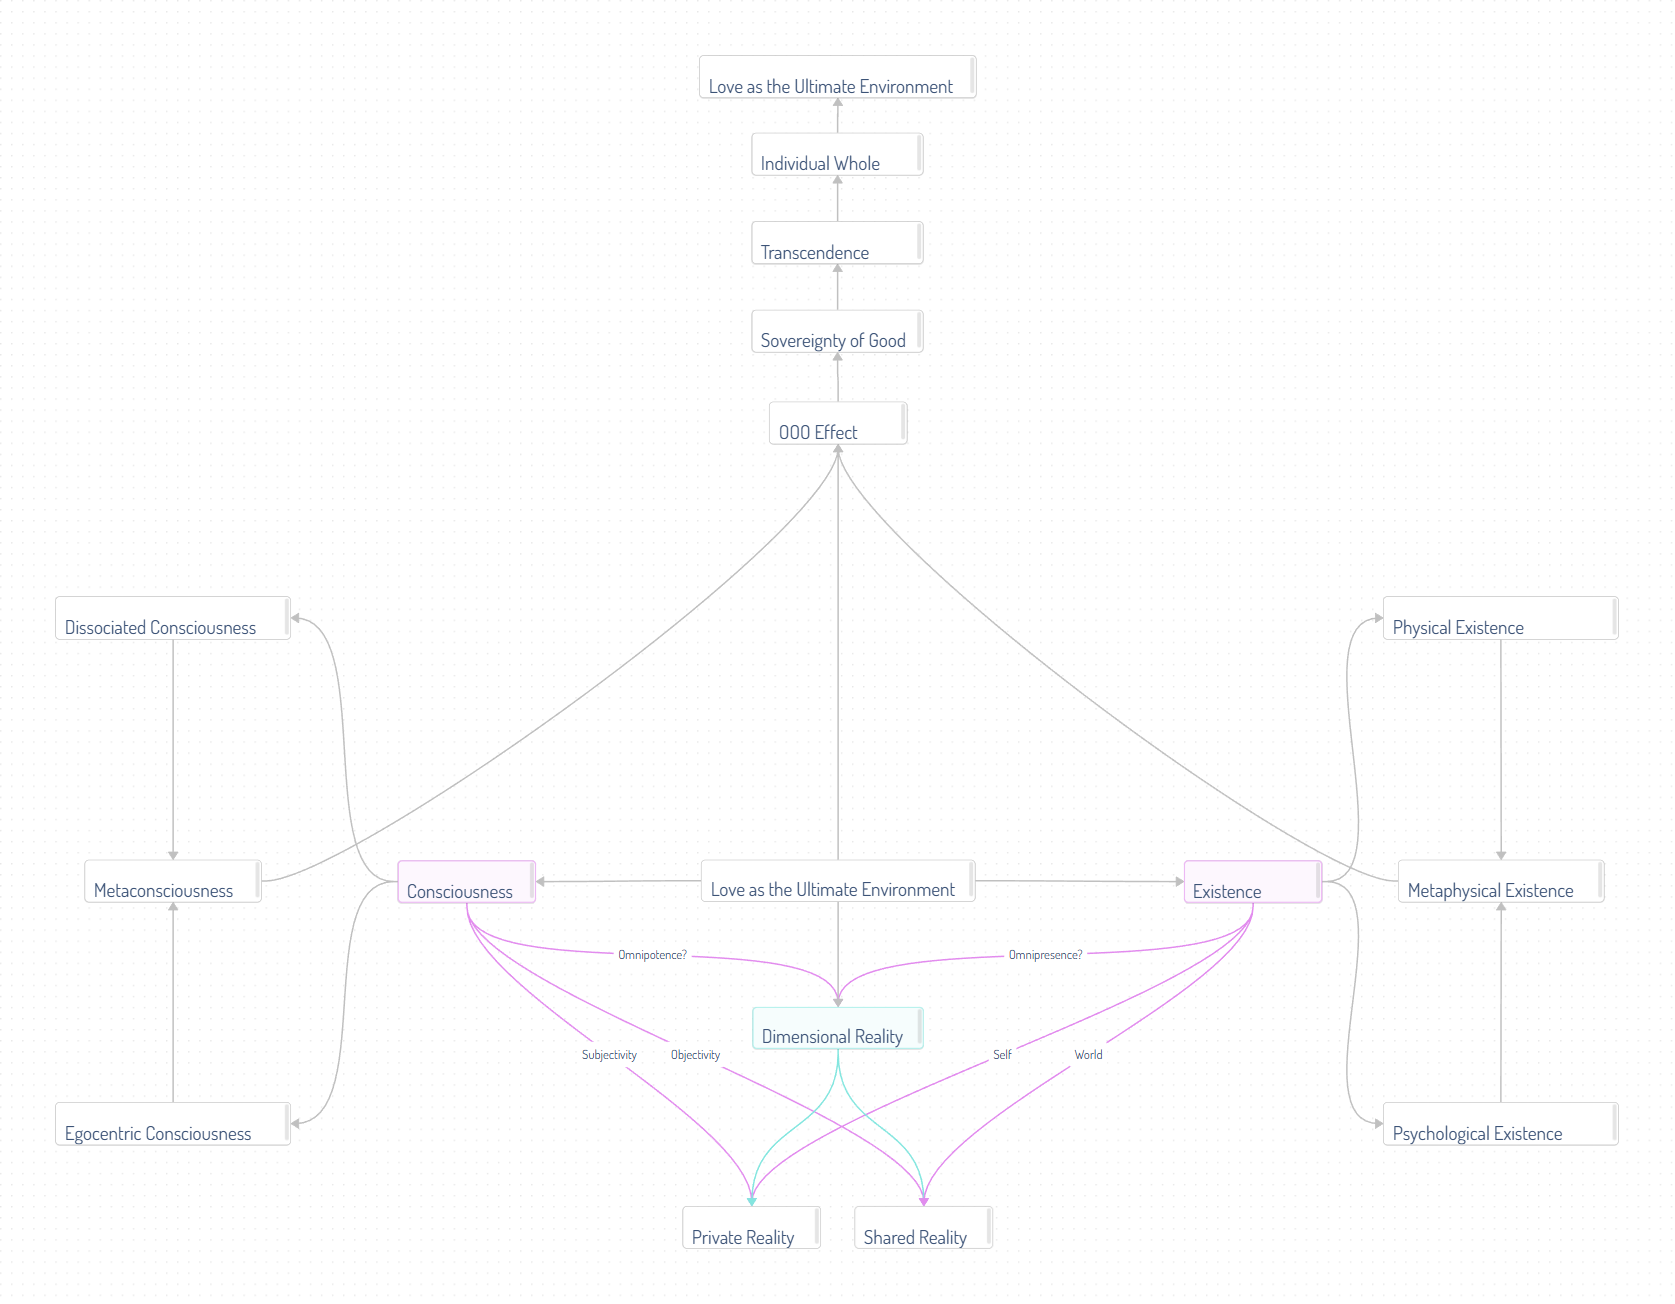
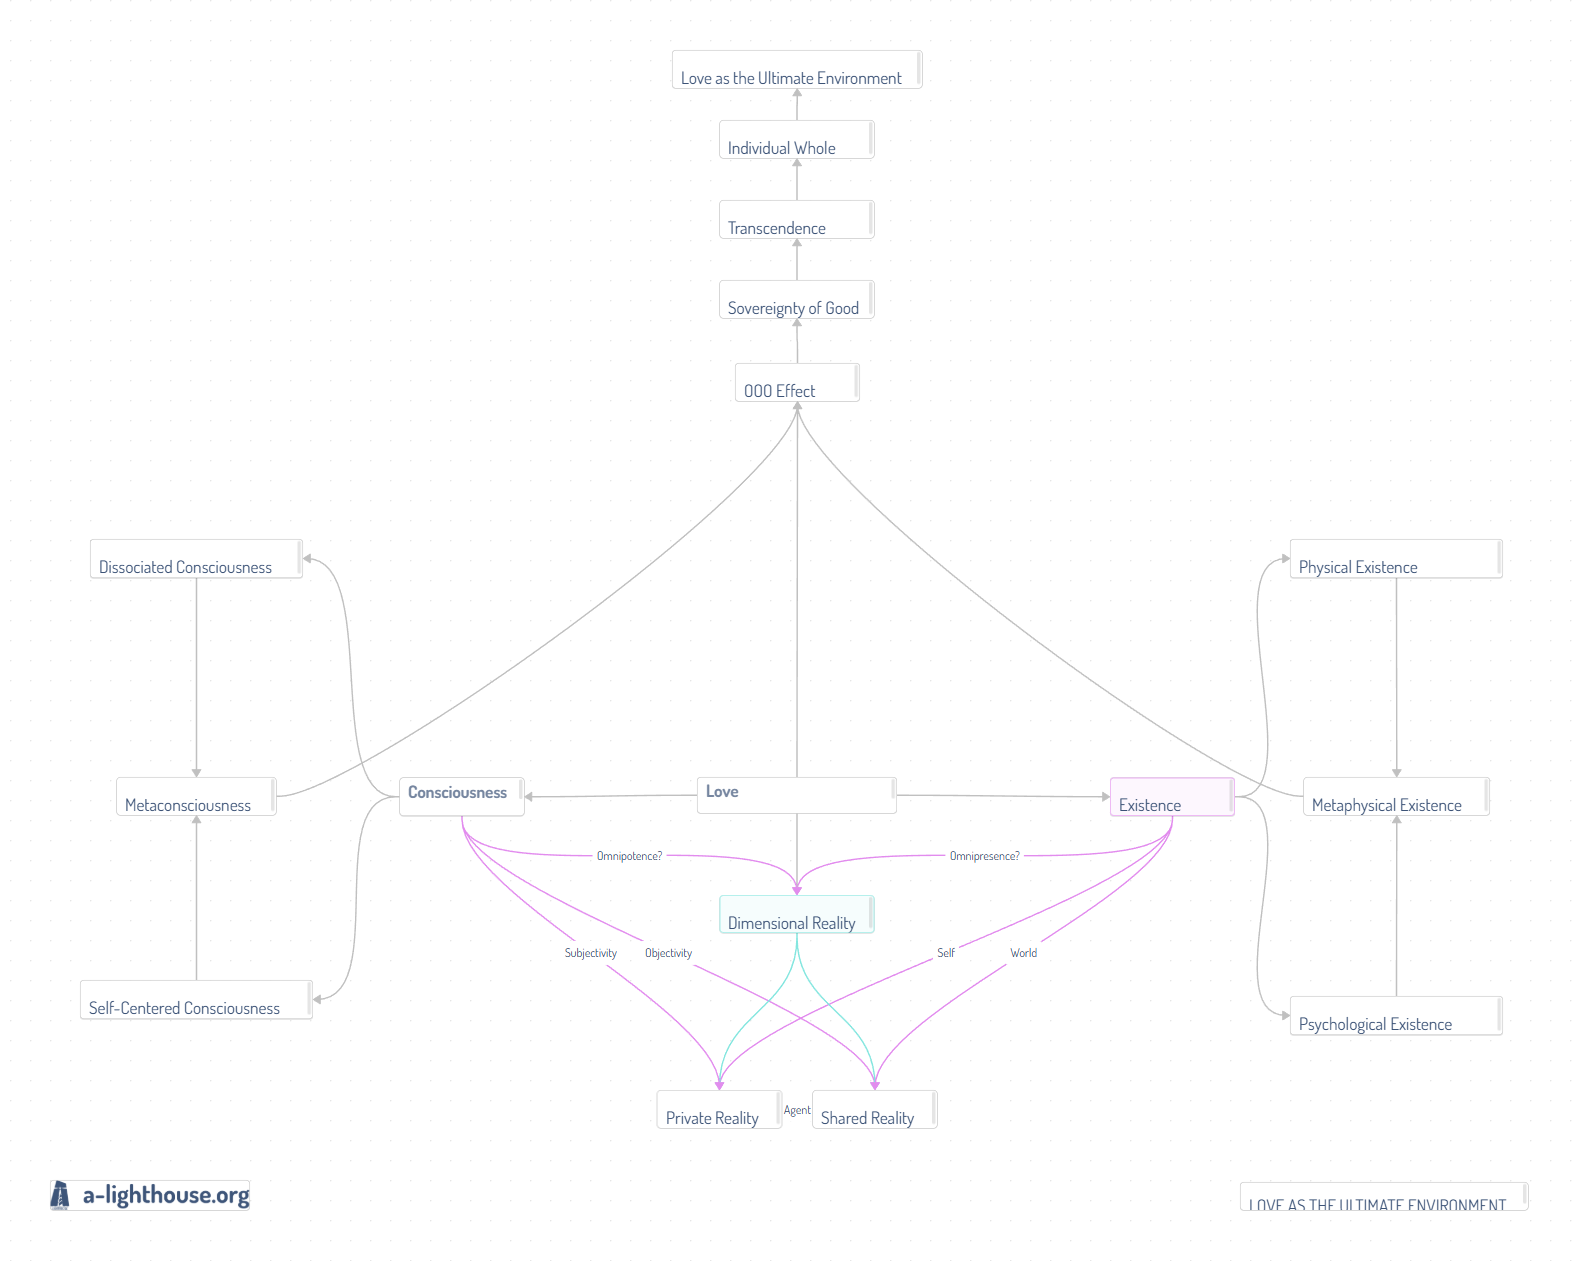
Quartz sync: Aug 29, 2026, 5:34 PM

diff --git a/content/DATA/INDICES/Terms Index/Consciousness.md b/content/DATA/INDICES/Terms Index/Consciousness.md
@@ -1,0 +1,30 @@
+---
+title: Consciousness
+description: "How we sense"
+draft: false
+unlisted: false
+stealth: false
+robots: 
+password: 
+tags: 
+aliases: 
+  - /consciousness
+permalink: 
+date: 2026-08-29 17:05:12
+lastmod: 2026-08-29 17:17:37
+enableToc:  true
+cssclasses: 
+  - hide-breadcrumbs
+---
+
+In this program, consciousness is how you sense, interpret, and learn. It's the sum of all your experiences of existence.
+
+We say that there are three kinds of consciousness. You can think of them existing as a coin.
+1. Dissociated Consciousness: the fact-based, emotionless consciousness of the world
+2. Self-centered Consciousness: the ego-centric, sensitive consciousness of the self
+3. Metaconsciousness: the balance of both sides of the coin
+
+<hr>
+
+# 1. Dissociated Consciousness
+
